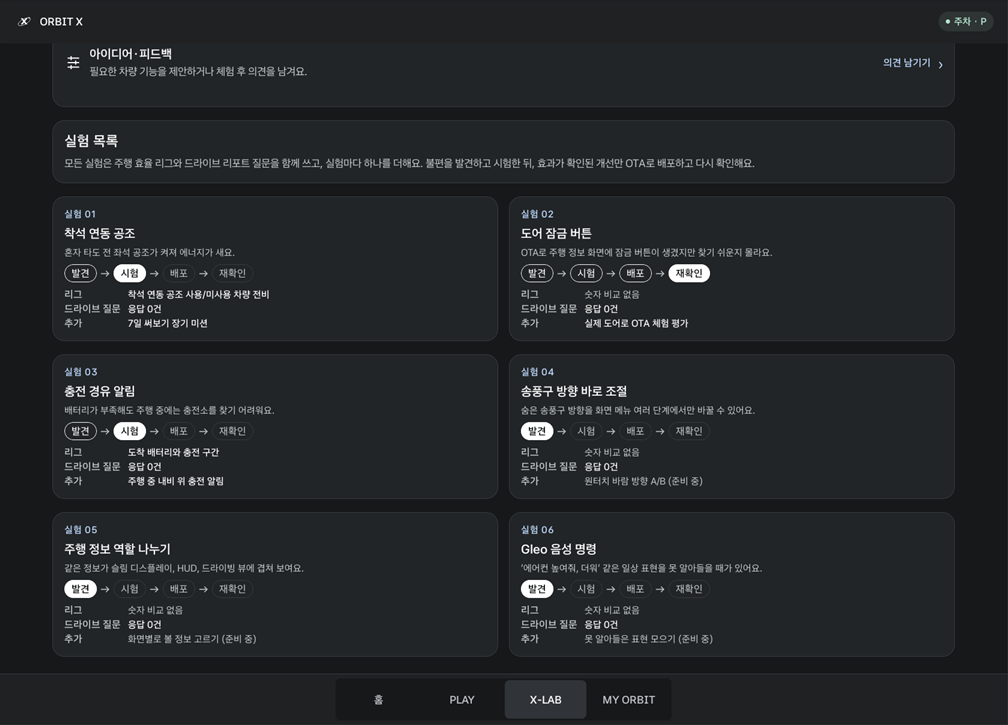
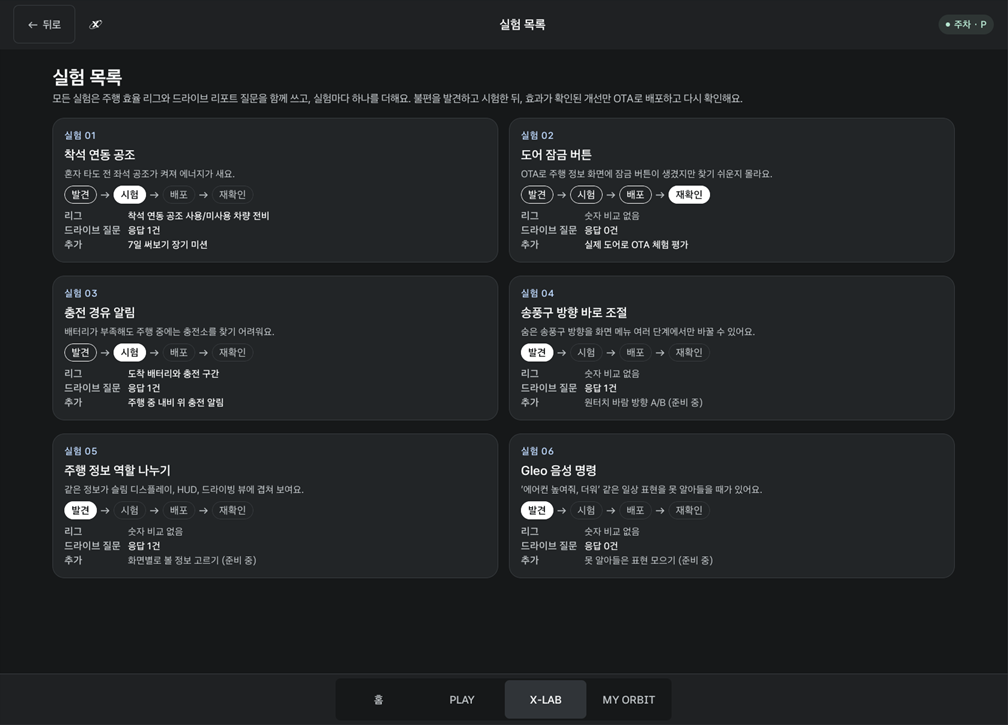
Move the X-LAB experiment cards into their own experiment list page

diff --git a/README.md b/README.md
@@ -53,7 +53,7 @@ Pleos Connect v2.1.0 에뮬레이터에서 현재 빌드로 캡처했습니다. 
 | 슬로건과 인사말, PLAY·X-LAB 진입 | 이달 주행 기록, 빈 좌석 공조 인사이트, 같은 차종 비교(예시), 순위 |
 | **드라이브** | **X-LAB** |
 | ![드라이브](docs/screenshots/04_drive.png) | ![X-LAB](docs/screenshots/08_xlab_experiments.png) |
-| 진행 중 카드, 드라이브 리포트, 나의 드라이브 기록 | 실험 6개의 단계(발견 → 시험 → 배포 → 재확인)와 연결된 PLAY, 응답 수 |
+| 진행 중 카드, 드라이브 리포트, 나의 드라이브 기록 | X-LAB → 실험 목록: 실험 6개의 단계(발견 → 시험 → 배포 → 재확인)와 연결된 PLAY, 응답 수 |
 | **착석 연동 공조** | **OTA 평가 (실제 도어 제어)** |
 | ![공조](docs/screenshots/09_climate.png) | ![OTA](docs/screenshots/10_ota.png) |
 | 빈 차량을 감지해 순정 공조를 끄고 "에너지 절약" 표시 | Vehicle SDK로 네 문을 잠그고 풀며 버튼을 평가 |
@@ -135,7 +135,7 @@ Pleos Connect v2.1.0 에뮬레이터에서 현재 빌드로 캡처했습니다. 
 
 **실험 목록: 공통 PLAY 2개 + 실험마다 하나**
 
-모든 실험은 **주행 효율 리그**(숫자로 효과 측정)와 **드라이브 리포트 질문**(도착 직후 이유 수집)을 함께 쓰고, 실험마다 PLAY를 하나만 더합니다. 드라이브마다 실험 질문을 하나씩 돌려 가며 묻습니다. 도착 후 주차하면 **내비 위 알림 버튼**으로 앱을 열지 않고 답할 수 있고, 앱의 드라이브 리포트에서도 답할 수 있습니다. 응답 수는 X-LAB 실험 카드에 쌓입니다. 실험 하나는 설정 묶음(단계, 리그 지표, 드라이브 질문, 추가 PLAY)이라 새 실험을 넣어도 PLAY 화면을 고칠 필요가 없습니다. 운영 단계에서는 이 설정을 서버에서 내려보냅니다.
+모든 실험은 **주행 효율 리그**(숫자로 효과 측정)와 **드라이브 리포트 질문**(도착 직후 이유 수집)을 함께 쓰고, 실험마다 PLAY를 하나만 더합니다. 드라이브마다 실험 질문을 하나씩 돌려 가며 묻습니다. 도착 후 주차하면 **내비 위 알림 버튼**으로 앱을 열지 않고 답할 수 있고, 앱의 드라이브 리포트에서도 답할 수 있습니다. 응답 수는 **X-LAB → 실험 목록**의 실험 카드에 쌓입니다. 실험 하나는 설정 묶음(단계, 리그 지표, 드라이브 질문, 추가 PLAY)이라 새 실험을 넣어도 PLAY 화면을 고칠 필요가 없습니다. 운영 단계에서는 이 설정을 서버에서 내려보냅니다.
 
 | 실험 | 불편·낭비 | 리그 | 드라이브 질문 | 추가 PLAY | 단계 |
 | --- | --- | --- | --- | --- | --- |
